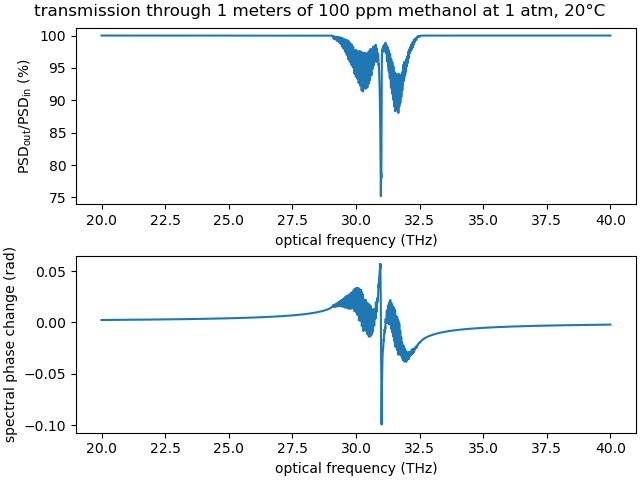
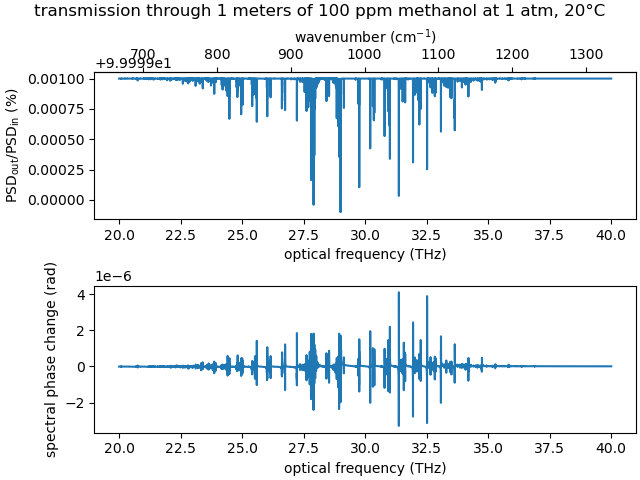
fix Voigt profiles by using updated hapi (with initialXsect fork)

diff --git a/hitran_syn/functions.py b/hitran_syn/functions.py
@@ -3,23 +3,24 @@ import os, functools
 import numpy as np
 from scipy import constants
 
-import hapi
+import hapi_initialXsectfork as hapi
 
-from hapi import absorptionCoefficient_Generic, absorptionCoefficient_Priority, absorptionCoefficient_HT, absorptionCoefficient_SDVoigt, absorptionCoefficient_Voigt, absorptionCoefficient_Lorentz, absorptionCoefficient_Doppler
+from hapi_initialXsectfork import absorptionCoefficient_Generic, absorptionCoefficient_Priority, absorptionCoefficient_HT, absorptionCoefficient_SDVoigt, absorptionCoefficient_Voigt, absorptionCoefficient_Lorentz, absorptionCoefficient_Doppler
 
 _default_db_path = os.path.join(os.path.expanduser("~"), "hitran-database")
 
 available_molecules = [i[2] for i in hapi.ISO_ID.values()]
 
-def download_hitran_data(molecule_name, db_path=_default_db_path):
-  hapi.db_begin(db_path)
+def download_hitran_data(molecule_name, db_path=_default_db_path, voigt_params=True):
+  hapi.db_begin(os.path.join(db_path, "voigt" if voigt_params else "novoigt"))
   if molecule_name in hapi.getTableList(): return
 
   try: table_entry, = filter(lambda i: i[2]==molecule_name, hapi.ISO_ID.values())
   except ValueError: raise Exception("invalid molecule name (check `available_molecules`)")
   M, I, _, _, _, _ = table_entry
 
-  hapi.fetch(molecule_name,M,I,0,1e10,ParameterGroups=["Voigt_Air", "Voigt_Self"])
+  if voigt_params: hapi.fetch(molecule_name,M,I,0,1e10,ParameterGroups=["160-char","Voigt_Air", "Voigt_Self"])
+  else: hapi.fetch(molecule_name,M,I,0,1e10)
 
 def profile_ComplexLorentz(Nu,Gamma0,Delta0,WnGrid,YRosen=0.0,Sw=1.0):
   if not YRosen==0: raise NotImplementedError()
@@ -31,8 +32,8 @@ def profile_TwosidedComplexLorentz(Nu,Gamma0,Delta0,WnGrid,YRosen=0.0,Sw=1.0):
   return profile_ComplexLorentz(Nu,Gamma0,Delta0,WnGrid,YRosen,Sw) + profile_ComplexLorentz(-Nu,Gamma0,Delta0,WnGrid,YRosen,Sw)
 
 def profile_ComplexVoigt(Nu,GammaD,Gamma0,Delta0,WnGrid,YRosen=0.0,Sw=1.0):
-    re, im = hapi.pcqsdhc(Nu,GammaD,Gamma0,0j,Delta0,0j,0j,0j,WnGrid,YRosen)
-    return Sw*(re - 1j*im)
+  re, im = hapi.pcqsdhc(Nu,GammaD,Gamma0,0j,Delta0,0j,0j,0j,WnGrid,YRosen)
+  return Sw*(re - 1j*im)
 
 def profile_TwosidedComplexVoigt(Nu,GammaD,Gamma0,Delta0,WnGrid,YRosen=0.0,Sw=1.0):
   return profile_ComplexVoigt(Nu,GammaD,Gamma0,Delta0,WnGrid,YRosen,Sw) + profile_ComplexVoigt(-Nu,GammaD,Gamma0,Delta0,WnGrid,YRosen,Sw)
@@ -65,7 +66,7 @@ def absorptionCoefficient_TwosidedComplexVoigt(*args, WavenumberGrid=None, **kwa
     WavenumberGrid=WavenumberGrid,
     initial_Xsect=np.zeros(WavenumberGrid.size, complex))
 
-def intensity_absorption_coefficient(molecule_name, nu, partial_pressure=101325, total_pressure=101325, temperature=293.15, backend=absorptionCoefficient_Lorentz, db_path=_default_db_path, wings_approximation=False):
+def intensity_absorption_coefficient(molecule_name, nu, partial_pressure=101325, total_pressure=101325, temperature=293.15, backend=absorptionCoefficient_Lorentz, db_path=_default_db_path, wings_approximation=False, voigt_params=True):
   """
     Returns the real-valued quantity mu in I_out = exp(-mu*z) I_in, where I_out/I_in are the intensity spectra.
 
@@ -76,11 +77,12 @@ def intensity_absorption_coefficient(molecule_name, nu, partial_pressure=101325,
     total_pressure (float): total pressure in Pascal
       (defaults to 101325 Pa = 1 atm)
     temperature (float): temperature in Kelvin (defaults to 293.15, i.e., 20°C)
+    voigt_params: whether to download voigt parameters (might result in missing lines where no data is available)
   """
 
   if molecule_name not in available_molecules: raise ValueError("molecule_name {} not available, see `available_molecules` for a list".format(molecule_name))
 
-  download_hitran_data(molecule_name, db_path=db_path)
+  download_hitran_data(molecule_name, db_path=db_path, voigt_params=voigt_params)
 
   fraction = partial_pressure/total_pressure
 

diff --git a/setup.py b/setup.py
@@ -19,7 +19,7 @@ setuptools.setup(
     install_requires=[
         'numpy',
         'scipy>=1.4.0',
-        'hitran-api @ git+https://github.com/Leberwurscht/hapi.git@initial_Xsect#egg=hitran-api-1.2.2.1initialXsect',
+        'hapi_initialXsectfork @ git+https://gitlab.com/leberwurscht/hapi_initialXsectfork.git@initialXsectfork',
     ],
     classifiers=[
         "Programming Language :: Python :: 3",

diff --git a/README.md b/README.md
@@ -1,6 +1,6 @@
 Allows to synthesize complex-valued absorption spectra (i.e., intensity and phase) from the hitran database for different pressures/temperatures accounting for pressure and Doppler broadening, using HAPI. List of supported molecules: <https://hitran.org/lbl/>.
 
-Uses JAX for acceleration if it is installed. Keep in mind that if you use a GPU, single precision is the default. Switching to double precision is recommended (`import jax; jax.config.update("jax_enable_x64", True)` at the beginning of your script, or set the environement variable `JAX_ENABLE_X64=True`). The JAX functions for the complex Voigt profiles were taken from the [exojax](https://github.com/HajimeKawahara/exojax) library.
+Can use JAX for GPU acceleration. Keep in mind that if you use a GPU, single precision is the default. Switching to double precision is recommended (`import jax; jax.config.update("jax_enable_x64", True)` at the beginning of your script, or set the environement variable `JAX_ENABLE_X64=True`). The JAX functions for the complex Voigt profiles were taken from the [exojax](https://github.com/HajimeKawahara/exojax) library.
 
 
 Installation
@@ -41,7 +41,7 @@ print()
 def get_data(nu_min, nu_max):
   nu = np.linspace(nu_min,nu_max,25000)
 
-  pressure = 101325 # 1 atm in Torr
+  pressure = 101325 # 1 atm in Pascal
   temperature = 273.15+20 # 20°C in Kelvin
   fraction = 100e-6 # 100 ppm
   molecule_name = "(12C)H3(16O)H" # ... of methanol
